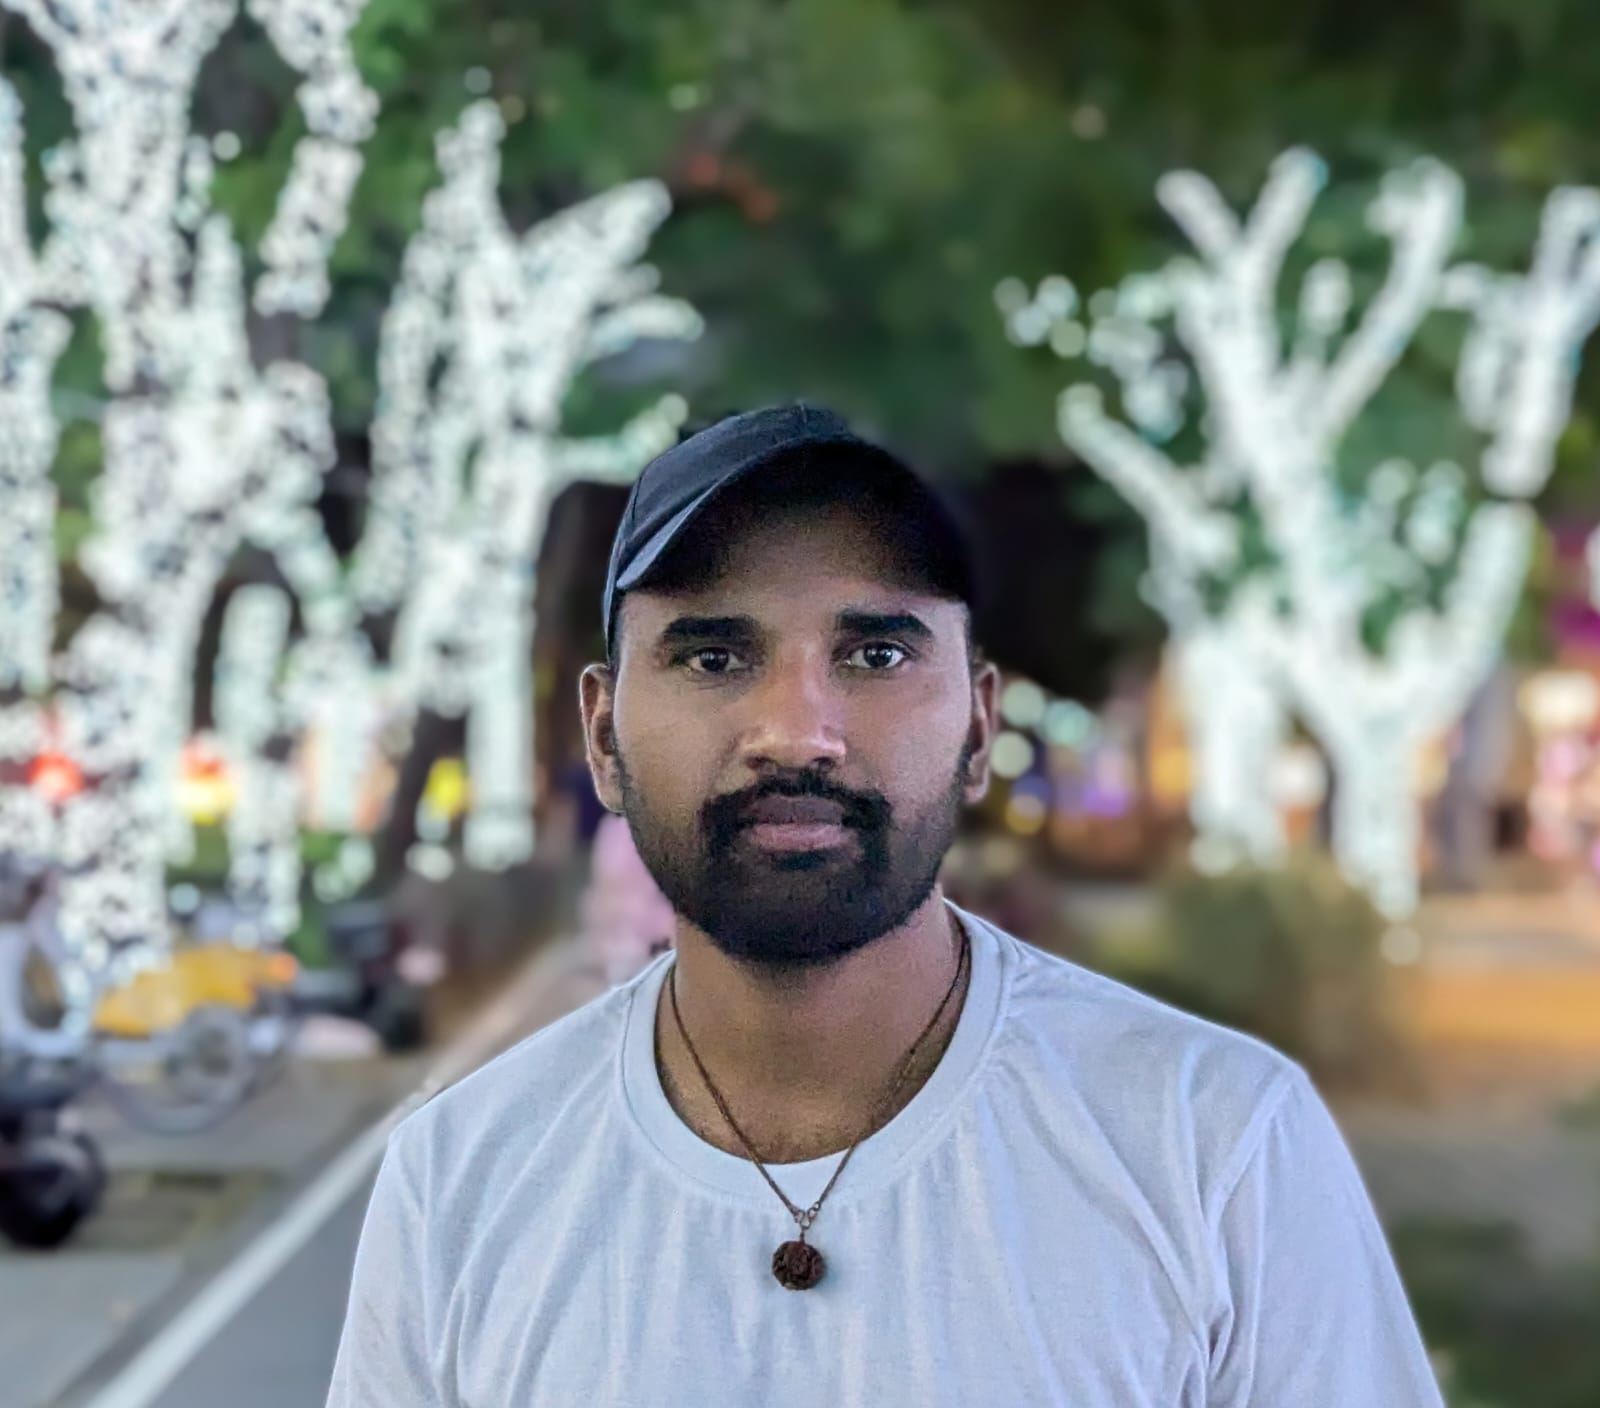
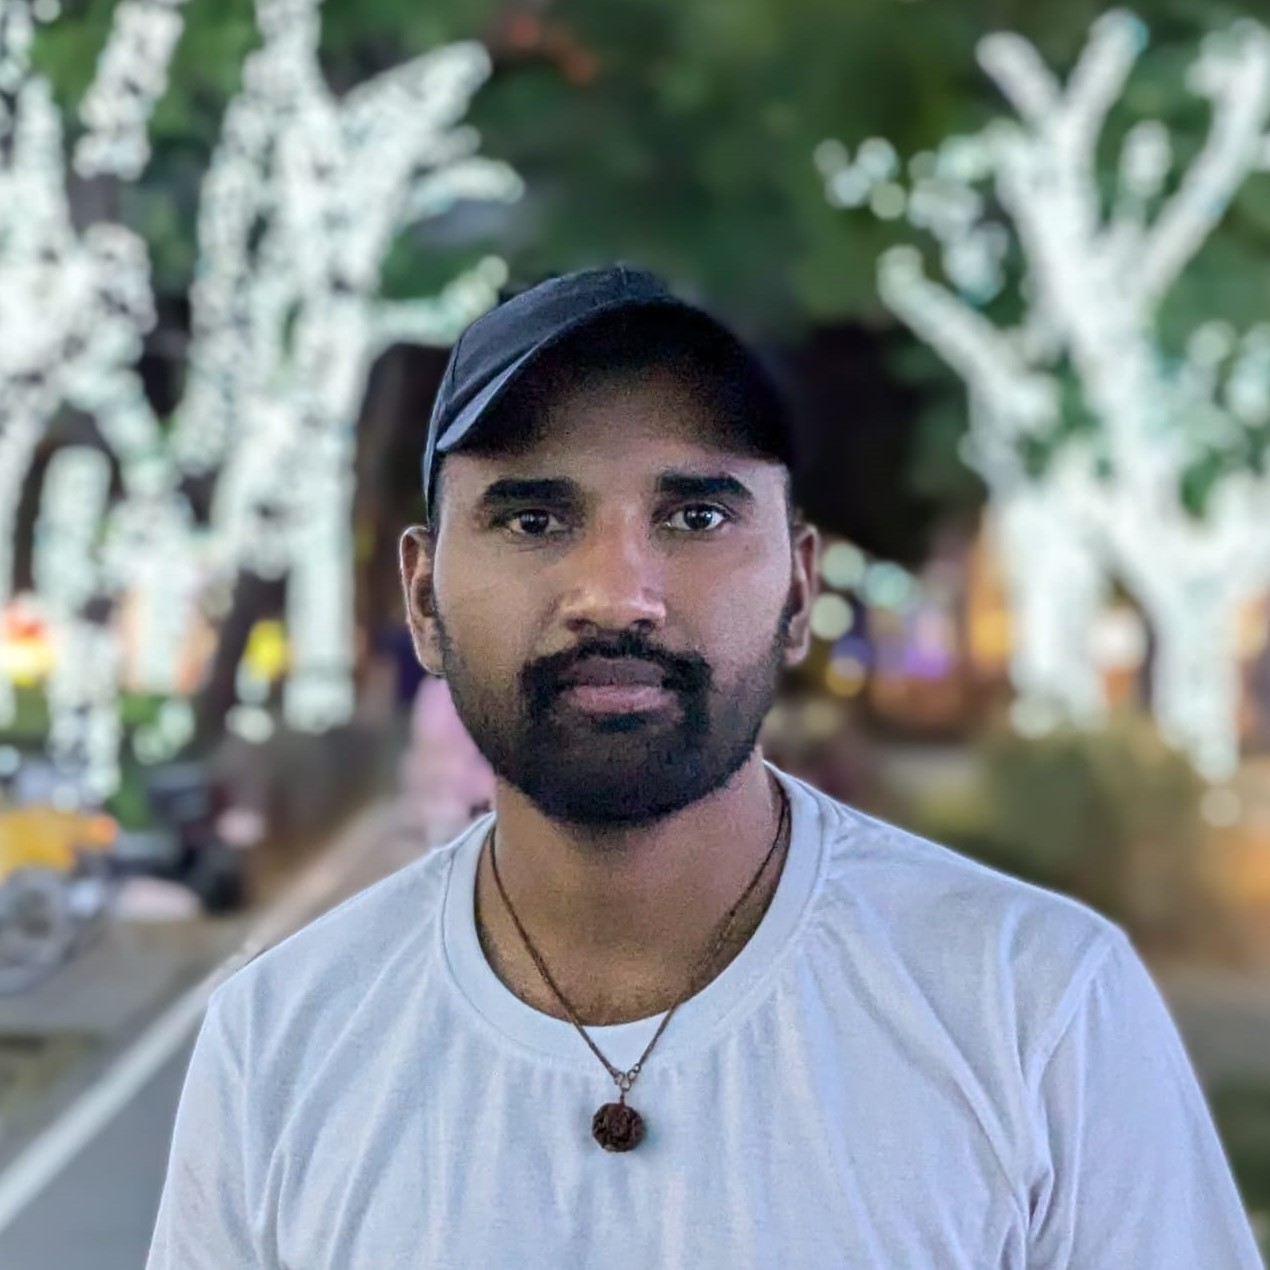
new changes

diff --git a/Printed-Electronics/src/assets/book_chapters.js b/Printed-Electronics/src/assets/book_chapters.js
@@ -2,12 +2,11 @@ const book_chapters =[
    
     {
         book_description:`Firman Mangasa Simanjuntak, Tahta Amrillah, A. Syed Jalaluddeen, V. Bipin, and Suresh Kumar Garlapati, “Perovskite-based emerging memories” in Perovskite Ceramics: Recent Advances and Emerging Applications, ed. Huaman JL, Rivera VA, Elsevier, 2023.`,
-        // topic_link:"https://scholar.google.com/citations?view_op=view_citation&hl=en&user=Or_ygS0AAAAJ&pagesize=80&citation_for_view=Or_ygS0AAAAJ:9ZlFYXVOiuMC"
+
     },
     {
         book_description:`TT Baby, GC Marques, F Neuper, SA Singaraju, SK Garlapati, F von Seggern, R Kruk, S Dasgupta, B Sykora, B Breitung, AP Sukkurji, U Bog, R Kumar, H Fuchs, T Reinheimer, M Mikolajekh, JR Binder, M Hirtz, M Ungerer, L Koker, U Gengenbach, N Mishra, P Gruber, M Tahoori, J Aghassi-Hagmann, H von Seggern, and H Hahn, “Printing technologies for integration of electronic devices and sensors,” in [Functional Nanostructures and Sensors for CBRN Defence and Environmental Safety and Security
             (FNS-CBRN Defence – 2018)], NATO Science for Peace and Security Series C: Environmental Security, Springer, Dordrecht (in print)`,
-        // topic_link:"https://scholar.google.com/citations?view_op=view_citation&hl=en&user=Or_ygS0AAAAJ&pagesize=80&citation_for_view=Or_ygS0AAAAJ:mVmsd5A6BfQC"
     }
 ]
 export default book_chapters;

diff --git a/Printed-Electronics/src/assets/ourteam.js b/Printed-Electronics/src/assets/ourteam.js
@@ -11,6 +11,7 @@ import syed_jalal from './profilephotos/syed jalal.jpeg'
 import shashwat from  './profilephotos/Shaswat.jpeg'
 import sanika from './profilephotos/Sanika.jpeg'
 import faisalmshah from './profilephotos/faisalmshah.jpg'
+import karrirao from './profilephotos/Karri Rao.jpeg'
 
 
 export const professor =[
@@ -46,6 +47,11 @@ export const phd_stu =[
       name:"Tamil",
       profile_photo:Tamilselvan,
       description:"I'm Tamil Selvan R, holding a master's degree in Green Energy Technology from Pondicherry University, and a bachelor's degree in Nanoscience and Technology. Presently, I'm employed as a Junior Research Fellow at IITH. My research interests revolve around renewable energy harvesting and resistive switching memories."
+   },
+   {
+      name:"Karri Trinadha Rao",
+      profile_photo:karrirao,
+      description:"I am Karri Trinadha Rao, currently pursuing a PhD at IITH, with a background in VLSI & Embedded Systems (M.Tech) and Electronics and Communication Engineering (B.Tech). My research interest is nanomaterials, flexible biosensors, and pressure sensors. Fueled by a deep passion for innovation, I am dedicated to pushing the boundaries of nanotechnology and contributing to the advancement of flexible biosensor technology."
    }
     
 ]

diff --git a/Printed-Electronics/src/assets/news&updates.js b/Printed-Electronics/src/assets/news&updates.js
@@ -16,7 +16,5 @@ export const upcomingevents=[
 
 
 export const currentopenings=[
-    
-         "Join our research group as a Ph.D. student! Interested candidates can send there applications to @suresh.kumar@msme.iith.ac.in "
-    
+         "Join our research group as a Ph.D. student! Interested candidates can send there applications to @suresh.kumar@msme.iith.ac.in ",
 ]
